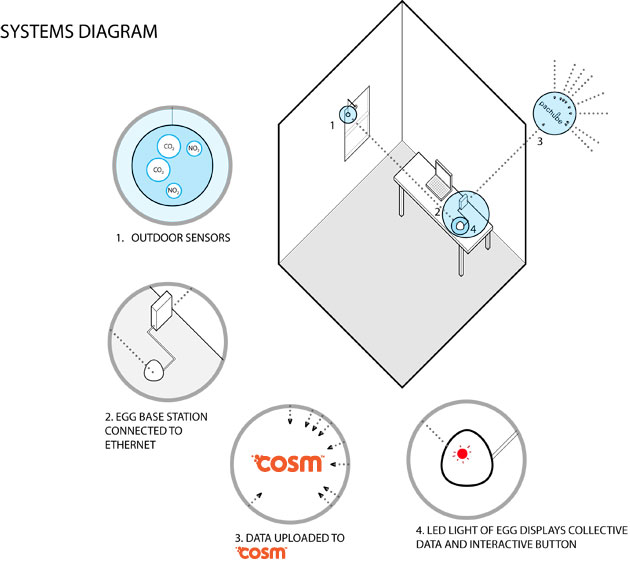
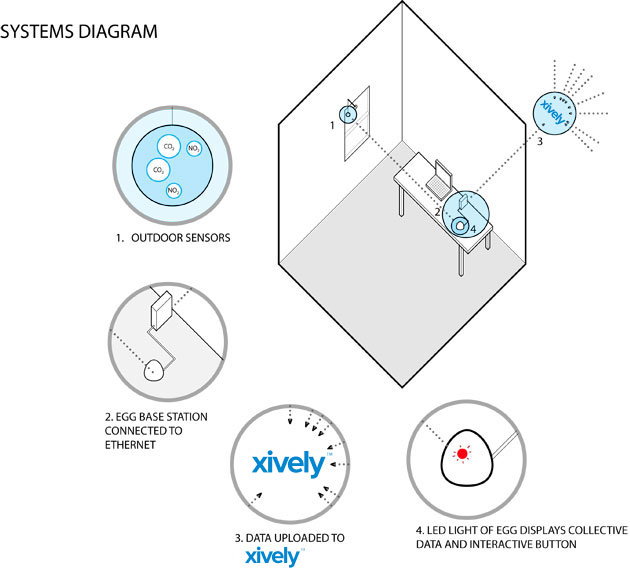
Cosm --> Xively

Changed region(s): [[0.3921, 0.7768, 0.5127, 0.8366], [0.3619, 0.9561, 0.4825, 1.0], [0.8444, 0.1793, 0.9048, 0.239]]

diff --git a/views/sass-partials/responsive/_pixel-ratio.scss b/views/sass-partials/responsive/_pixel-ratio.scss
@@ -1,59 +1,59 @@
-// 
+//
 // > 1.5
 //
 
-@media only screen and (-webkit-min-device-pixel-ratio: 1.5), 
-       only screen and (   -moz-min-device-pixel-ratio: 1.5), 
-       only screen and (     -o-min-device-pixel-ratio: 3/2), 
+@media only screen and (-webkit-min-device-pixel-ratio: 1.5),
+       only screen and (   -moz-min-device-pixel-ratio: 1.5),
+       only screen and (     -o-min-device-pixel-ratio: 3/2),
        only screen and (        min-device-pixel-ratio: 1.5) {
-  
+
   .branding-logo a {
     background-image: url('/assets/img/branding-logo@2x.png');
     background-size: 52px 57px;
-    
+
     // hack for IEs that reach here
     background-image: url('/assets/img/branding-logo.png')\9;
   }
 
-  .cosm-logo .ir {
-    background-image: url('/assets/img/logo-cosm-ratio1_5.png');
-    background-size: 171px 42px;
-    
+  .xively-logo .ir {
+    background-image: url('/assets/img/xively-logo@2x.png');
+    background-size: 171px 65px;
+
     // hack for IEs that reach here
-    background-image: url('/assets/img/logo-cosm-ratio1.png')\9;
+    background-image: url('/assets/img/xively-logo.png')\9;
   }
 
 }
 
-// 
+//
 // > 2
 //
 
-@media only screen and (-webkit-min-device-pixel-ratio: 2), 
-       only screen and (   -moz-min-device-pixel-ratio: 2), 
-       only screen and (     -o-min-device-pixel-ratio: 2/1), 
+@media only screen and (-webkit-min-device-pixel-ratio: 2),
+       only screen and (   -moz-min-device-pixel-ratio: 2),
+       only screen and (     -o-min-device-pixel-ratio: 2/1),
        only screen and (        min-device-pixel-ratio: 2) {
-  
+
   .branding-logo a {
     background-image: url('/assets/img/branding-logo@2x.png');
     background-size: 52px 57px;
-    
+
     // hack for IEs that reach here
     background-image: url('/assets/img/branding-logo.png')\9;
   }
 
-  .cosm-logo .ir {
-    background-image: url('/assets/img/logo-cosm-ratio2.png');
-    background-size: 171px 42px;
-    
+  .xively-logo .ir {
+    background-image: url('/assets/img/xively-logo@2x.png');
+    background-size: 171px 65px;
+
     // hack for IEs that reach here
-    background-image: url('/assets/img/logo-cosm-ratio1.png')\9;
+    background-image: url('/assets/img/xively-logo.png')\9;
   }
 
   body {
     background-image: url('/assets/img/egg-shell@2X.jpg');
     background-size: 256px 256px;
-    
+
     // hack for IEs that reach here
     background-image: url('/assets/img/egg-shell.jpg')\9;
   }
@@ -62,7 +62,7 @@
   .app-footer {
     background-image: url('/assets/img/egg-shell-alt@2X.jpg');
     background-size: 256px 256px;
-    
+
     // hack for IEs that reach here
     background-image: url('/assets/img/egg-shell-alt.jpg')\9;
   }

diff --git a/views/sass-partials/_base.scss b/views/sass-partials/_base.scss
@@ -168,7 +168,7 @@ a {
 
 // FOOTER
 
-.cosm-logo {
+.xively-logo {
   font-weight: bold;
   color: $color-blue-alt;
   text-shadow: 0 1px 0 #fff;
@@ -177,8 +177,8 @@ a {
   .ir {
     display: inline-block;
     width: em(171);
-    height: em(42);
-    background: transparent url('/assets/img/logo-cosm-ratio1.png') no-repeat left center;
+    height: em(65);
+    background: transparent url('/assets/img/xively-logo.png') no-repeat left center;
   }
 }
 

diff --git a/views/sass-partials/responsive/_width-460.scss b/views/sass-partials/responsive/_width-460.scss
@@ -139,7 +139,7 @@
   padding-bottom: 0;
 }
 
-.cosm-logo {
+.xively-logo {
   float: right;
   text-align: right;
   margin-top: em(38);
